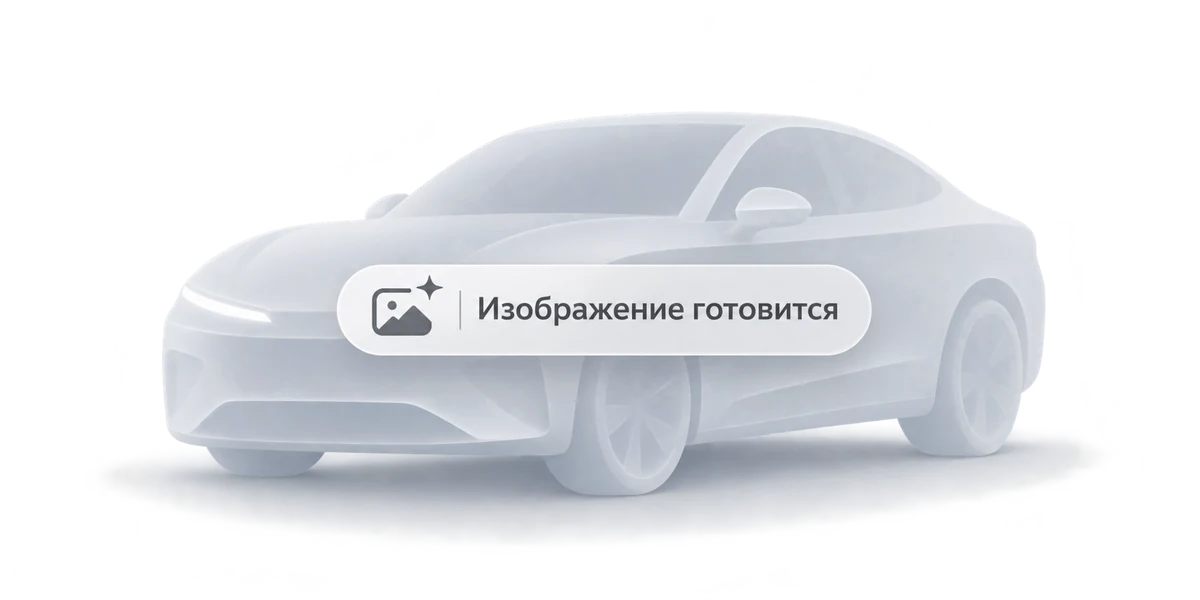
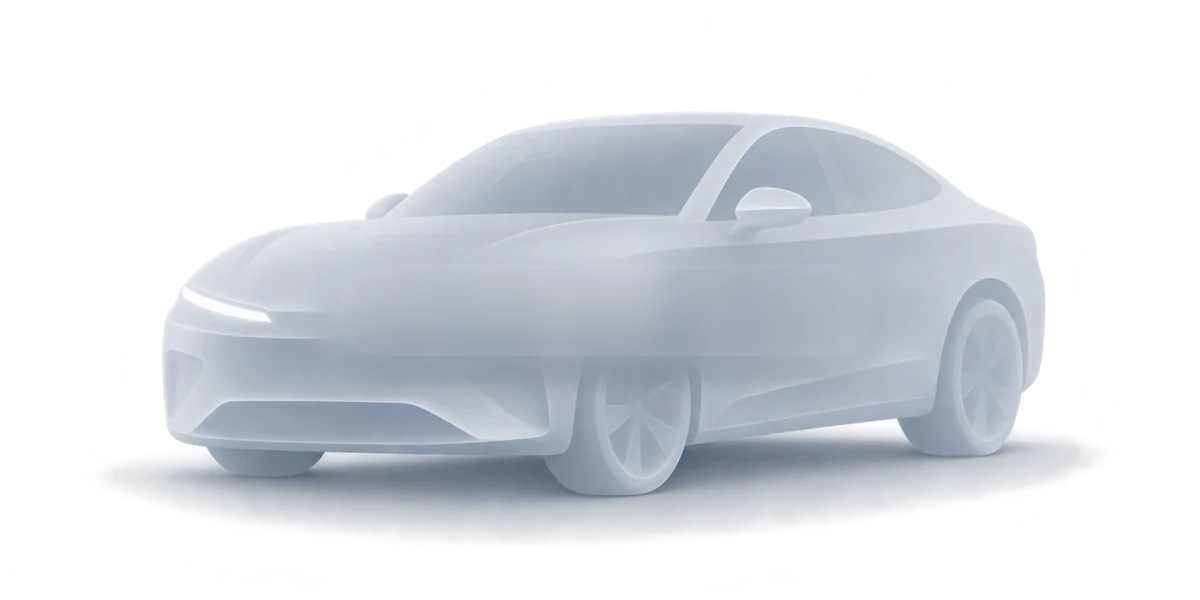
fix(garage): refine the universal vehicle placeholder
- The artwork's baked label is removed from the asset (blended out and
  softened), and the ghost car's greys are deepened ~30% so it reads on
  the mint card; dark-mode opacity 0.45 → 0.6.
- The status note is a smaller pill (10pt, 10pt icon, no forced width),
  centred under the tyres instead of across the body.
- The placeholder car sits 6pt lower in its slot.

The environment badge is already __DEV__-only, and the floating gear is
the Expo dev client's own button, absent from release builds.

diff --git a/components/screens-components/garage/vehicle-image-placeholder.tsx b/components/screens-components/garage/vehicle-image-placeholder.tsx
@@ -9,18 +9,18 @@ import { placeholderMessageKey, type VehicleImageStatus } from '@/services/vehic
 
 import universalPlaceholderArt from '@/assets/vehicles/placeholder/universal.webp';
 
-/**
- * Where the artwork's own label sits in its 2:1 frame (measured on the 1774×887
- * source). The label is drawn again here in the app's language, over the baked-in
- * Russian one, and never smaller than it, so the baked text never shows through.
- */
-const ART_LABEL = { left: 0.279, top: 0.44, right: 0.728, bottom: 0.591 };
+/** Where the ghost car's tyres end in the art's 2:1 frame (the car is centred). */
+const ART_GROUND = 0.911;
+/** Clear space between the tyres and the status note. */
+const NOTE_GAP = 4;
 
 /**
- * A ghosted, deliberately generic car with a short note, for a vehicle with no
- * approved picture yet: being generated, waiting for approval, failed or simply
- * missing. It names no make or model and promises no time. It renders at once,
- * from a bundled asset, so it is never a loading spinner.
+ * A ghosted, deliberately generic car with a small note under it, for a vehicle
+ * with no approved picture yet: being generated, waiting for approval, failed or
+ * simply missing. It names no make or model and promises no time. It renders at
+ * once, from a bundled asset, so it is never a loading spinner.
+ *
+ * The note hangs below the frame, so the space under the car must be free.
  */
 export default function VehicleImagePlaceholder({
   testID,
@@ -36,8 +36,6 @@ export default function VehicleImagePlaceholder({
   const { t } = useTranslation();
   const { tokens, scheme } = useThemeContext();
   const message = t(placeholderMessageKey(status));
-  const labelWidth = width * (ART_LABEL.right - ART_LABEL.left);
-  const labelHeight = height * (ART_LABEL.bottom - ART_LABEL.top);
 
   return (
     <AppView
@@ -47,41 +45,41 @@ export default function VehicleImagePlaceholder({
       accessibilityLabel={message}
       style={{ width, height }}
     >
-      {/* Light ghost art: quieter on the dark card, where it would otherwise glow. */}
+      {/* Light ghost art: a little quieter on the dark card, where it would glow. */}
       <Image
         source={universalPlaceholderArt}
         contentFit="contain"
-        style={{ width, height, opacity: scheme === 'dark' ? 0.45 : 1 }}
+        style={{ width, height, opacity: scheme === 'dark' ? 0.6 : 1 }}
         accessibilityIgnoresInvertColors
         accessible={false}
       />
-      {/* The baked label is centred, so a longer translation grows from the middle. */}
+      {/* Centred under the car, never across it. */}
       <AppView
-        style={{ position: 'absolute', top: height * ART_LABEL.top - 2, left: 0, right: 0, alignItems: 'center' }}
+        style={{
+          position: 'absolute',
+          top: height * ART_GROUND + NOTE_GAP,
+          left: 0,
+          width,
+          alignItems: 'center',
+        }}
       >
         <AppView
           testID={testID ? `${testID}-label` : undefined}
           row
           align="center"
-          justify="center"
-          gap={6}
+          gap={4}
           style={{
-            minWidth: labelWidth + 4,
             maxWidth: width,
-            minHeight: labelHeight + 4,
-            paddingHorizontal: 10,
+            paddingHorizontal: 7,
+            paddingVertical: 2,
             borderRadius: 999,
             borderWidth: 1,
             borderColor: tokens.border,
             backgroundColor: tokens.card,
           }}
         >
-          <ImagePlus size={Math.max(12, Math.round(labelHeight * 0.5))} strokeWidth={2} color={tokens.textMuted} />
-          <AppText
-            family="default"
-            weight="medium"
-            style={{ fontSize: Math.max(10, Math.min(13, labelHeight * 0.42)), color: tokens.textMuted, flexShrink: 1 }}
-          >
+          <ImagePlus size={10} strokeWidth={2} color={tokens.textMuted} />
+          <AppText family="default" weight="medium" style={{ fontSize: 10, lineHeight: 13, color: tokens.textMuted, flexShrink: 1 }}>
             {message}
           </AppText>
         </AppView>

diff --git a/components/screens-components/garage/garage-add-hero.tsx b/components/screens-components/garage/garage-add-hero.tsx
@@ -25,6 +25,8 @@ const RADIUS = 16;
 const PAGE_GUTTER = 16;
 /** Space between a selected car's bumper and the card's right edge, in pt. */
 const SELECTED_CAR_EDGE_GAP = 8;
+/** How much lower than an approved image the placeholder car sits, in pt. */
+const PLACEHOLDER_DROP = 6;
 /** Visible Corvette artwork bounds in its transparent 1200×600 source image. */
 const ART_BOUNDS = { left: 117 / 1200, top: 220 / 600, right: 1084 / 1200, bottom: 596 / 600 };
 
@@ -155,8 +157,9 @@ export function GarageHeroCard({
       ) : null}
 
       {isPlaceholder ? (
-        // In the car's own slot, so the card keeps its size and layout.
-        <AppView style={{ position: 'absolute', top: carTop, right: carRight }}>
+        // In the car's own slot, sat a little lower so the ghost car rests on the
+        // card; the card keeps its size and layout.
+        <AppView style={{ position: 'absolute', top: carTop + PLACEHOLDER_DROP, right: carRight }}>
           <VehicleImagePlaceholder
             testID={`${testID}-vehicle-placeholder`}
             width={carWidth}
